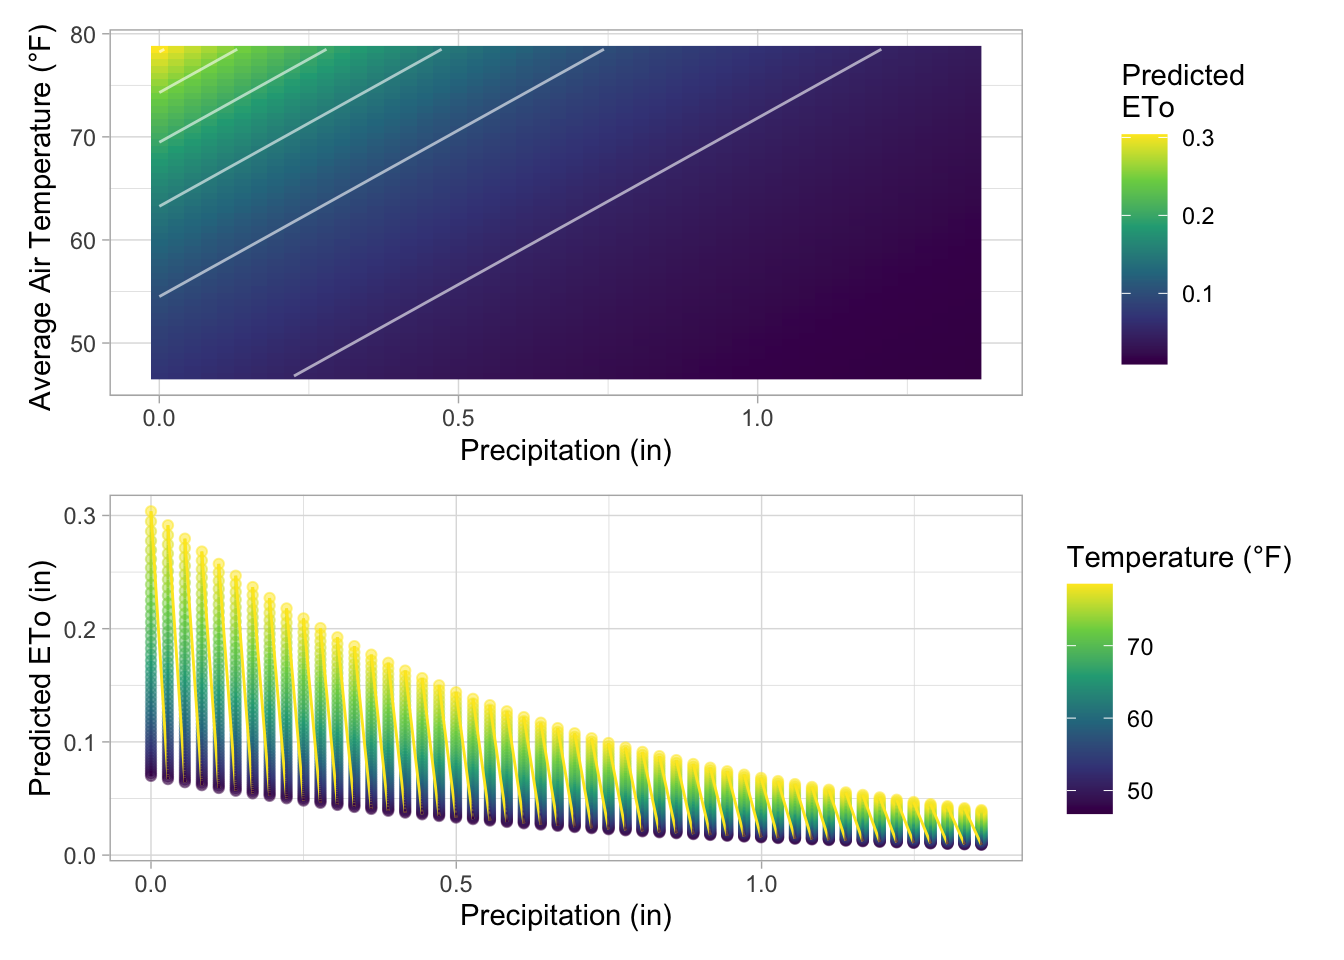
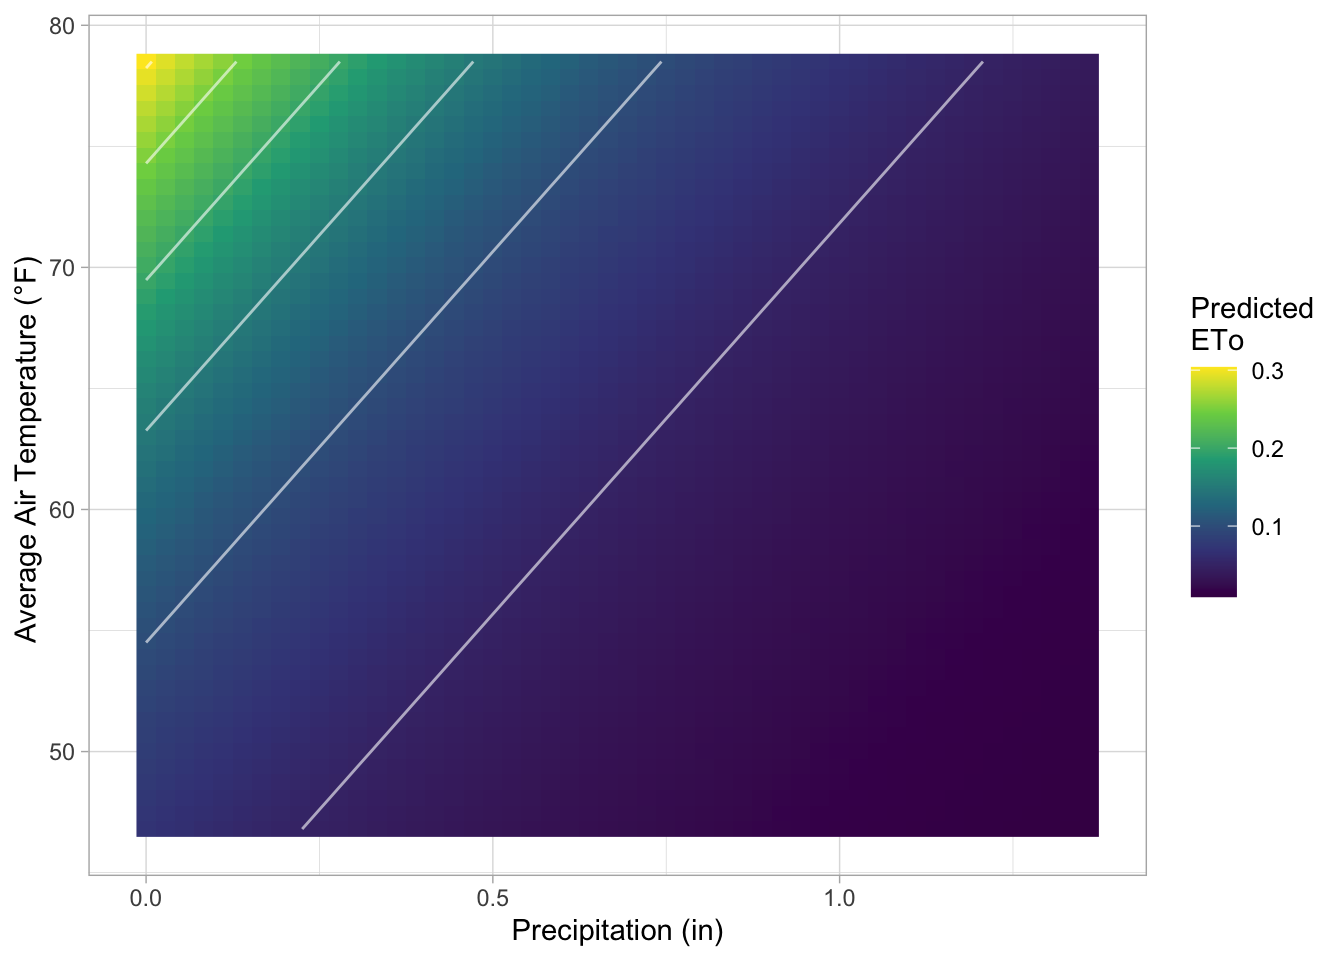
Added Null symbol and took out lineplot for more clarity.

diff --git a/docs/blog_post/eddy_co_blog_stats_222/index.html b/docs/blog_post/eddy_co_blog_stats_222/index.html
@@ -338,8 +338,8 @@ Precipitation:
 H0 : \beta_1 = 0 \\
 HA : \beta_1 &lt; 0 \\
 \end{align}
-\]</span> <em>Null : When there is no precipitation ETo stays the same.</em></p>
-<p><em>Alt: When there is precipitation, ETo decreases.</em></p>
+\]</span> <em>Null (H0) : When there is no precipitation ETo stays the same.</em></p>
+<p><em>Alt (HA): When there is precipitation, ETo decreases.</em></p>
 <p><span class="math display">\[
 \begin{align}
 Temperature:
@@ -347,8 +347,8 @@ H0 : \beta_2 = 0 \\
 HA : \beta_2 &gt; 0
 \end{align}
 \]</span></p>
-<p><em>Null: When Temperature is the same, Eto stays the same.</em></p>
-<p><em>Alt: When Temperature increase there is more ETo</em></p>
+<p><em>Null (H0): When Temperature is the same, Eto stays the same.</em></p>
+<p><em>Alt (HA): When Temperature increase there is more ETo</em></p>
 <section id="libraries-used" class="level4">
 <h4 class="anchored" data-anchor-id="libraries-used">Libraries Used</h4>
 <p>For Reproducibility, these are the libraries used in this blog post to recreate this workflow. The <code>set.seed()</code> is set to always get the same random numbers and keep the consistency of reproducibility. The libraries used are: <code>tidyverse, here, dplyr, patchwork, knitr, lubridate, andbroom</code>.</p>
@@ -753,22 +753,8 @@ HA : \beta_2 &gt; 0
 <span id="cb15-26"><a href="#cb15-26" aria-hidden="true" tabindex="-1"></a>  ) <span class="sc">+</span></span>
 <span id="cb15-27"><a href="#cb15-27" aria-hidden="true" tabindex="-1"></a>  <span class="fu">theme_light</span>()</span>
 <span id="cb15-28"><a href="#cb15-28" aria-hidden="true" tabindex="-1"></a></span>
-<span id="cb15-29"><a href="#cb15-29" aria-hidden="true" tabindex="-1"></a><span class="co"># plot 2</span></span>
-<span id="cb15-30"><a href="#cb15-30" aria-hidden="true" tabindex="-1"></a>plot2<span class="ot">&lt;-</span> <span class="fu">ggplot</span>(eto_pred, <span class="fu">aes</span>(<span class="at">x =</span> precip_in, <span class="at">y =</span> phi, <span class="at">color =</span> avg_air_temp_f)) <span class="sc">+</span></span>
-<span id="cb15-31"><a href="#cb15-31" aria-hidden="true" tabindex="-1"></a>  <span class="fu">geom_point</span>(<span class="at">alpha =</span> <span class="fl">0.5</span>) <span class="sc">+</span></span>
-<span id="cb15-32"><a href="#cb15-32" aria-hidden="true" tabindex="-1"></a>  <span class="fu">geom_line</span>() <span class="sc">+</span></span>
-<span id="cb15-33"><a href="#cb15-33" aria-hidden="true" tabindex="-1"></a>  <span class="fu">scale_color_viridis_c</span>(<span class="at">option =</span> <span class="st">"rainbow"</span>) <span class="sc">+</span></span>
-<span id="cb15-34"><a href="#cb15-34" aria-hidden="true" tabindex="-1"></a>  <span class="fu">labs</span>(</span>
-<span id="cb15-35"><a href="#cb15-35" aria-hidden="true" tabindex="-1"></a>    <span class="co">#title = "Predicted ETo vs Precipitation",</span></span>
-<span id="cb15-36"><a href="#cb15-36" aria-hidden="true" tabindex="-1"></a>    <span class="co">#subtitle = "Gamma GLM with log link",</span></span>
-<span id="cb15-37"><a href="#cb15-37" aria-hidden="true" tabindex="-1"></a>    <span class="at">x =</span> <span class="st">"Precipitation (in)"</span>,</span>
-<span id="cb15-38"><a href="#cb15-38" aria-hidden="true" tabindex="-1"></a>    <span class="at">y =</span> <span class="st">"Predicted ETo (in)"</span>,</span>
-<span id="cb15-39"><a href="#cb15-39" aria-hidden="true" tabindex="-1"></a>    <span class="at">color =</span> <span class="st">"Temperature (°F) "</span></span>
-<span id="cb15-40"><a href="#cb15-40" aria-hidden="true" tabindex="-1"></a>  ) <span class="sc">+</span></span>
-<span id="cb15-41"><a href="#cb15-41" aria-hidden="true" tabindex="-1"></a>  <span class="fu">theme_light</span>()</span>
-<span id="cb15-42"><a href="#cb15-42" aria-hidden="true" tabindex="-1"></a></span>
-<span id="cb15-43"><a href="#cb15-43" aria-hidden="true" tabindex="-1"></a><span class="co"># Viewing Plots</span></span>
-<span id="cb15-44"><a href="#cb15-44" aria-hidden="true" tabindex="-1"></a>(plot1 <span class="sc">/</span> plot2)</span></code></pre></div><button title="Copy to Clipboard" class="code-copy-button"><i class="bi"></i></button></div>
+<span id="cb15-29"><a href="#cb15-29" aria-hidden="true" tabindex="-1"></a><span class="co"># Viewing Plots</span></span>
+<span id="cb15-30"><a href="#cb15-30" aria-hidden="true" tabindex="-1"></a>(plot1)</span></code></pre></div><button title="Copy to Clipboard" class="code-copy-button"><i class="bi"></i></button></div>
 </details>
 <div class="cell-output-display">
 <div class="quarto-figure quarto-figure-center">
@@ -778,7 +764,7 @@ HA : \beta_2 &gt; 0
 </div>
 </div>
 </div>
-<p><em>Interp</em>: The contour plot (top plot) shows that predicted ETo increases with higher temperatures and decreases as precipitation increases. The scatter and line plot (bottom) conveys the same relationships: at higher temperatures, ETo is higher, and increasing precipitation corresponds to lower ETo. In the bottom plot, the effect of temperature is somewhat harder to distinguish due to overlapping points and lines, which could be improved by grouping temperature into discrete levels. These relationships are more clearly visualized in the following plot with confidence intervals added.</p>
+<p><em>Interp</em>: The contour plot (top plot) shows that predicted ETo increases with higher temperatures and decreases as precipitation increases.</p>
 </section>
 <section id="integrating-confidence-intervals" class="level4">
 <h4 class="anchored" data-anchor-id="integrating-confidence-intervals">Integrating Confidence Intervals</h4>

diff --git a/docs/blog_post.html b/docs/blog_post.html
@@ -247,7 +247,7 @@ Dec 11, 2025
 </div>
 </div></a>
 </div>
-<div class="g-col-1" data-index="1" data-categories="UXVhcnRvJTJDUiUyQ01FRFM=" data-listing-date-sort="1765353600000" data-listing-file-modified-sort="1765408620538" data-listing-date-modified-sort="NaN" data-listing-reading-time-sort="17" data-listing-word-count-sort="3253">
+<div class="g-col-1" data-index="1" data-categories="UXVhcnRvJTJDUiUyQ01FRFM=" data-listing-date-sort="1765353600000" data-listing-file-modified-sort="1765493012120" data-listing-date-modified-sort="NaN" data-listing-reading-time-sort="16" data-listing-word-count-sort="3115">
 <a href="./blog_post/eddy_co_blog_stats_222/index.html" class="quarto-grid-link">
 <div class="quarto-grid-item card h-100 card-left">
 <p class="card-img-top">